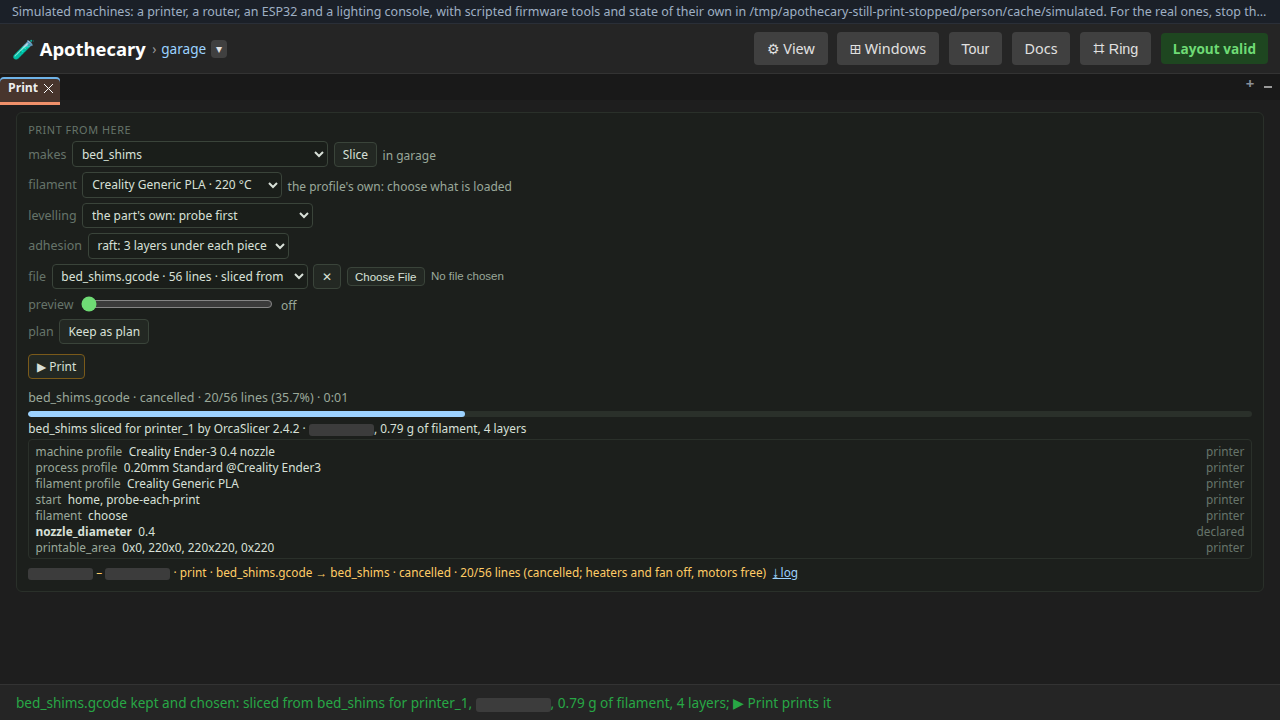
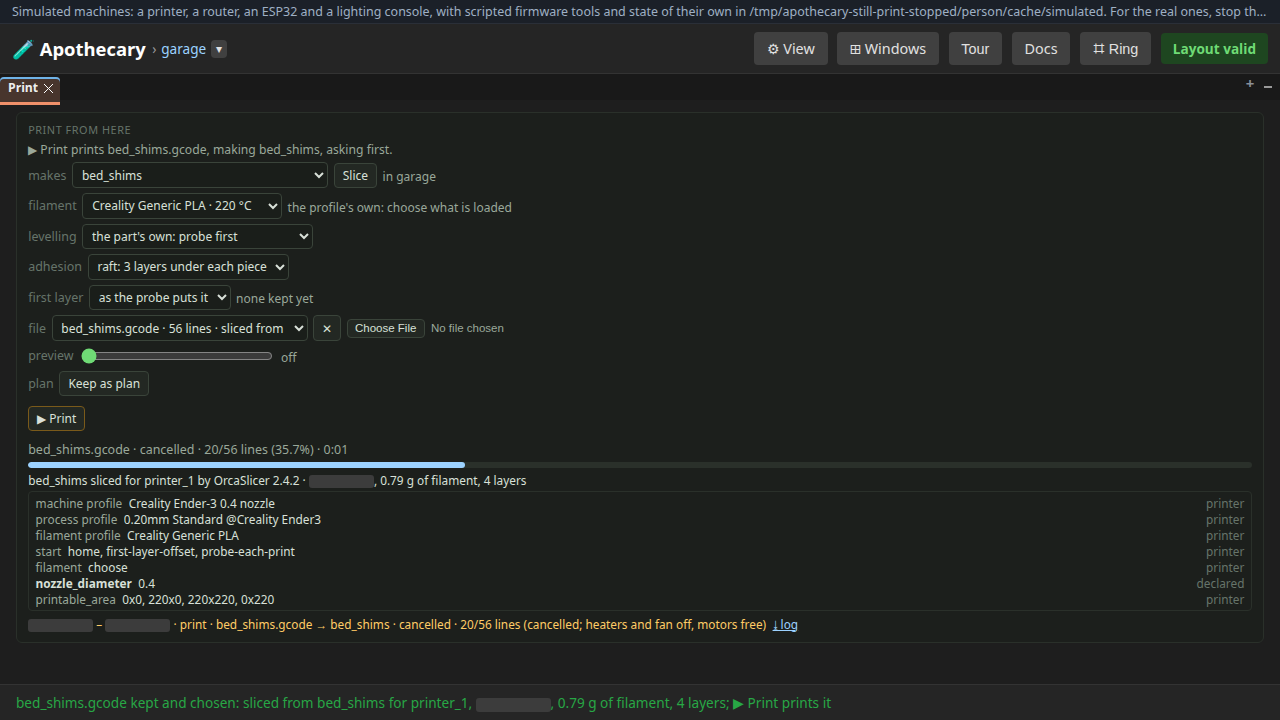
Page 54 ends with printer_1's first layer kept 0.05 mm lower and the piece sliced with it
The page's test, run on the served sum, keeps the first-layer offset in the
Print window's first layer row and slices bed_shims again; the slice's
z_offset says -0.05, origin measured. It now reads that slice as the newest
of bed_shims's records rather than as a new file: the scripted slicer writes
no z_offset into its G-code, so the slice's bytes are the raft slice's and
devices.save_print_file keeps them as the file already kept, under its id.
Looking for a new file id failed with an empty list where the row and the
slice had worked.

Pictures, each past picture_drift.py's tolerance and each the page as the
sum draws it: 54-04 new (the row kept lower); 54-02 the first layer row and
the start's first-layer-offset; 54-01 Part › Feedback's one Keep, and 54-03
the Machine's poll choice, its log with no follow tick-box and the bed's
greyed probe buttons, from the lanes merged into the sum, whose pictures of
this page were not drawn again there.

Tools: Claude Code

Changed region(s): [[0.0, 0.1833, 0.625, 0.8861], [0.9375, 0.6111, 0.9688, 0.8556]]

diff --git a/tests/e2e/test_a_print_that_stopped.py b/tests/e2e/test_a_print_that_stopped.py
@@ -300,13 +300,22 @@ def test_a_print_that_stopped_is_told_where_and_tried_again(page: Page, simulate
     at = {"site": "garage", "printer": "printer_1"}
     kept = http.get("/slicer/first-layer", params={"part": "bed_shims", **at}).json()["offset"]
     assert kept["value"] == -0.05 and kept["kept"] is not None, kept
-    before = {s["file_id"] for s in http.get("/slicer/slices").json()}
+
+    # The scripted slicer writes no z_offset into its G-code, so this slice's bytes are the
+    # raft's and its file the one kept already (devices.save_print_file): its record, made
+    # again, is the newest of bed_shims's.
+    def shims_newest():
+        made = [s for s in http.get("/slicer/slices").json() if s["made"]["name"] == "bed_shims"]
+        return max(made, key=lambda s: s["at"])
+
+    before = shims_newest()["at"]
     machine.locator("#print-slice").click()
     expect(page.locator("#status")).to_contain_text(
         "bed_shims.gcode kept and chosen", timeout=60000
     )
-    newest = [s for s in http.get("/slicer/slices").json() if s["file_id"] not in before]
-    z = {s["name"]: s for s in newest[0]["settings"]}["z_offset"]
+    newest = shims_newest()
+    assert newest["at"] > before, (newest["at"], before)
+    z = {s["name"]: s for s in newest["settings"]}["z_offset"]
     assert (z["value"], z["origin"]) == ("-0.05", "measured"), z
     assert "first-layer-offset: garage's printer_1, kept" in z["source"], z
     stack = _maximised(page, "machine-print", "#print-offset-row")

diff --git a/walkthrough/54-a-print-that-stopped.md b/walkthrough/54-a-print-that-stopped.md
@@ -9,7 +9,7 @@ opening, the notes under it and the list of what the page does not show
 are the test's fixed words. Editing the page by hand is editing the output
 of a program: the next run puts it back.
 
-A print of bed_shims on printer_1 cancelled on its first layer, as a person cancels a first layer that will not hold: its piece's drawer opened by itself in Part › Feedback, saying the layer it stopped on, a fault filed there, the piece tried again on a raft, and Site's Jobs opening the Machine and the drawer together. [docs/cabinet.md](../docs/cabinet.md) is the reference.
+A print of bed_shims on printer_1 cancelled on its first layer, as a person cancels a first layer that will not hold: its piece's drawer opened by itself in Part › Feedback, saying the layer it stopped on, a fault filed there, the piece tried again on a raft, Site's Jobs opening the Machine and the drawer together, and the printer's first layer kept 0.05 mm lower and the piece sliced with it. [docs/cabinet.md](../docs/cabinet.md) and [docs/slicer.md](../docs/slicer.md#a-printers-first-layer-offset) are the reference.
 
 **Runtime-bound.** It drives a real browser against `apothecary serve --simulated`, started as a person starts it, with a script that answers as OrcaSlicer's command line does, each move of its file followed by a dwell so the print is seen running. The simulated printer prints; the test cancels it once a line of its first layer is sent.
 
@@ -35,9 +35,15 @@ Site's Jobs lists the cancelled print. Its row selects printer_1 and opens its M
 
 ![A job's row opens its Machine and its drawer](screenshots/54-03-a-job-s-row-opens-its-machine-and-its-drawer.png)
 
+## 4. The first layer kept lower
+
+A first layer that did not hold, its lines round and apart, is a nozzle too high over the bed. The Print window's first layer row keeps printer_1's first-layer offset 0.05 mm lower, as it is chosen, and Slice makes the piece again with it: every slice made for printer_1 after takes it as its z_offset, on top of the probe's own offset. A one-layer square, first_layer_square, says which way to go. Print is maximised here from its stack.
+
+![The first layer kept lower](screenshots/54-04-the-first-layer-kept-lower.png)
+
 ## What this page does not show
 
-- **Why a first layer does not hold.** A level bed, the mesh on and the first layer's height are the bench's; the page says where the print stopped and offers what to slice again with.
+- **Why a first layer does not hold.** A level bed, a clean one, and which way the nozzle's height is off are the bench's, read on a one-layer square (`first_layer_square`); the page says where the print stopped, offers what to slice again with, and keeps the height chosen.
 - **What changes on every run.** Moments are blanked in the pictures.
 
 Run it yourself:
